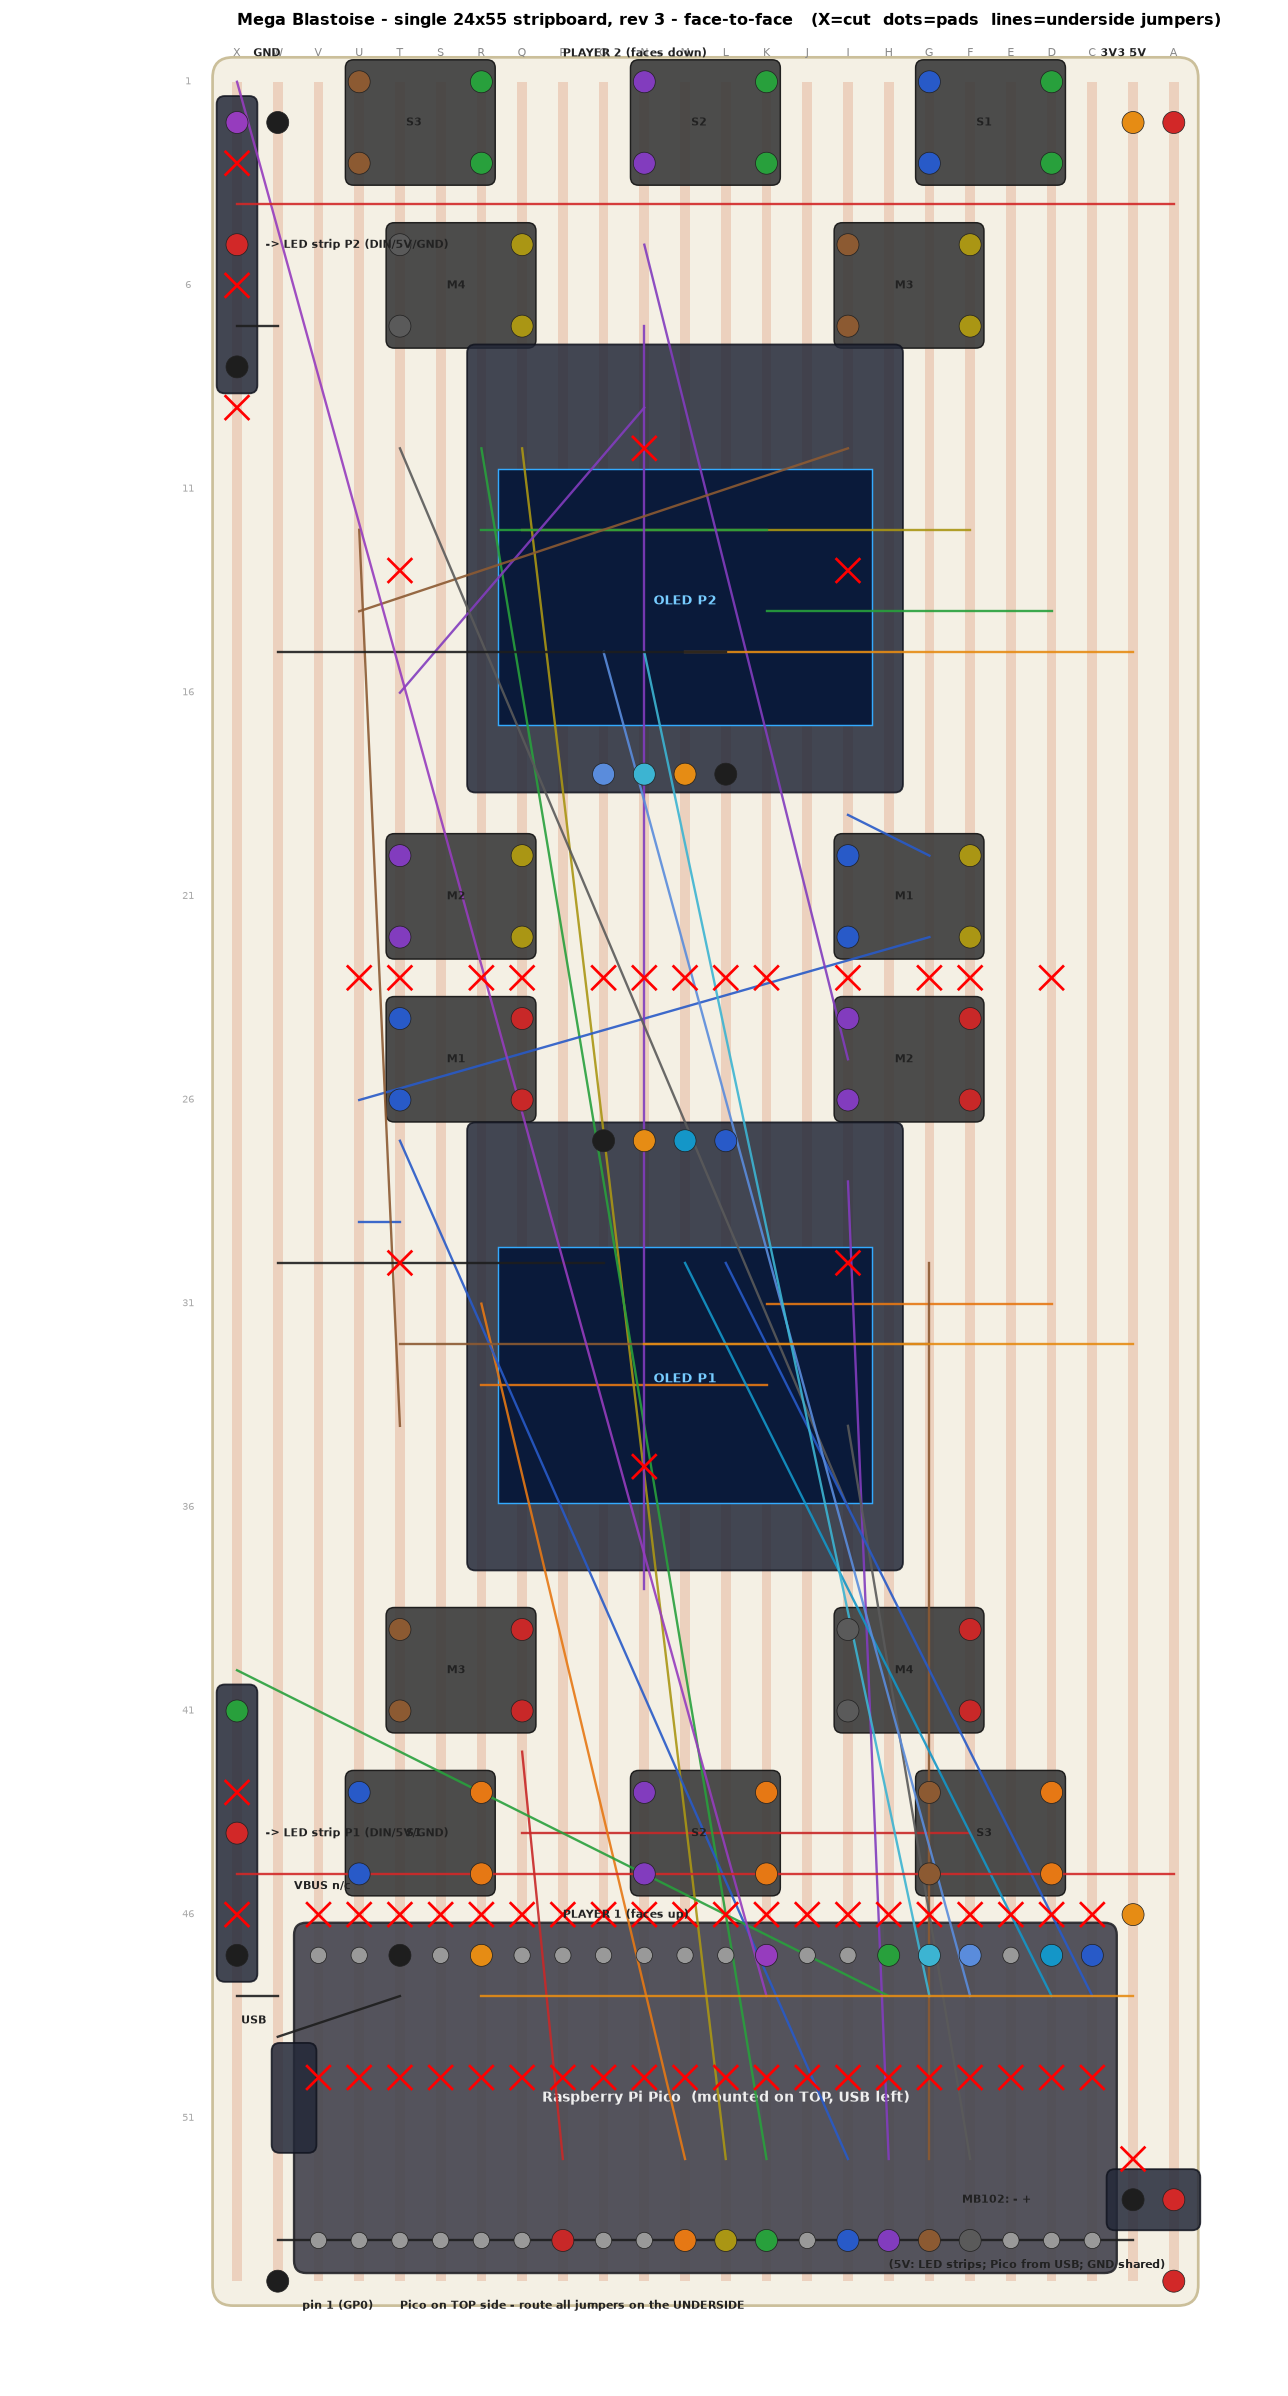
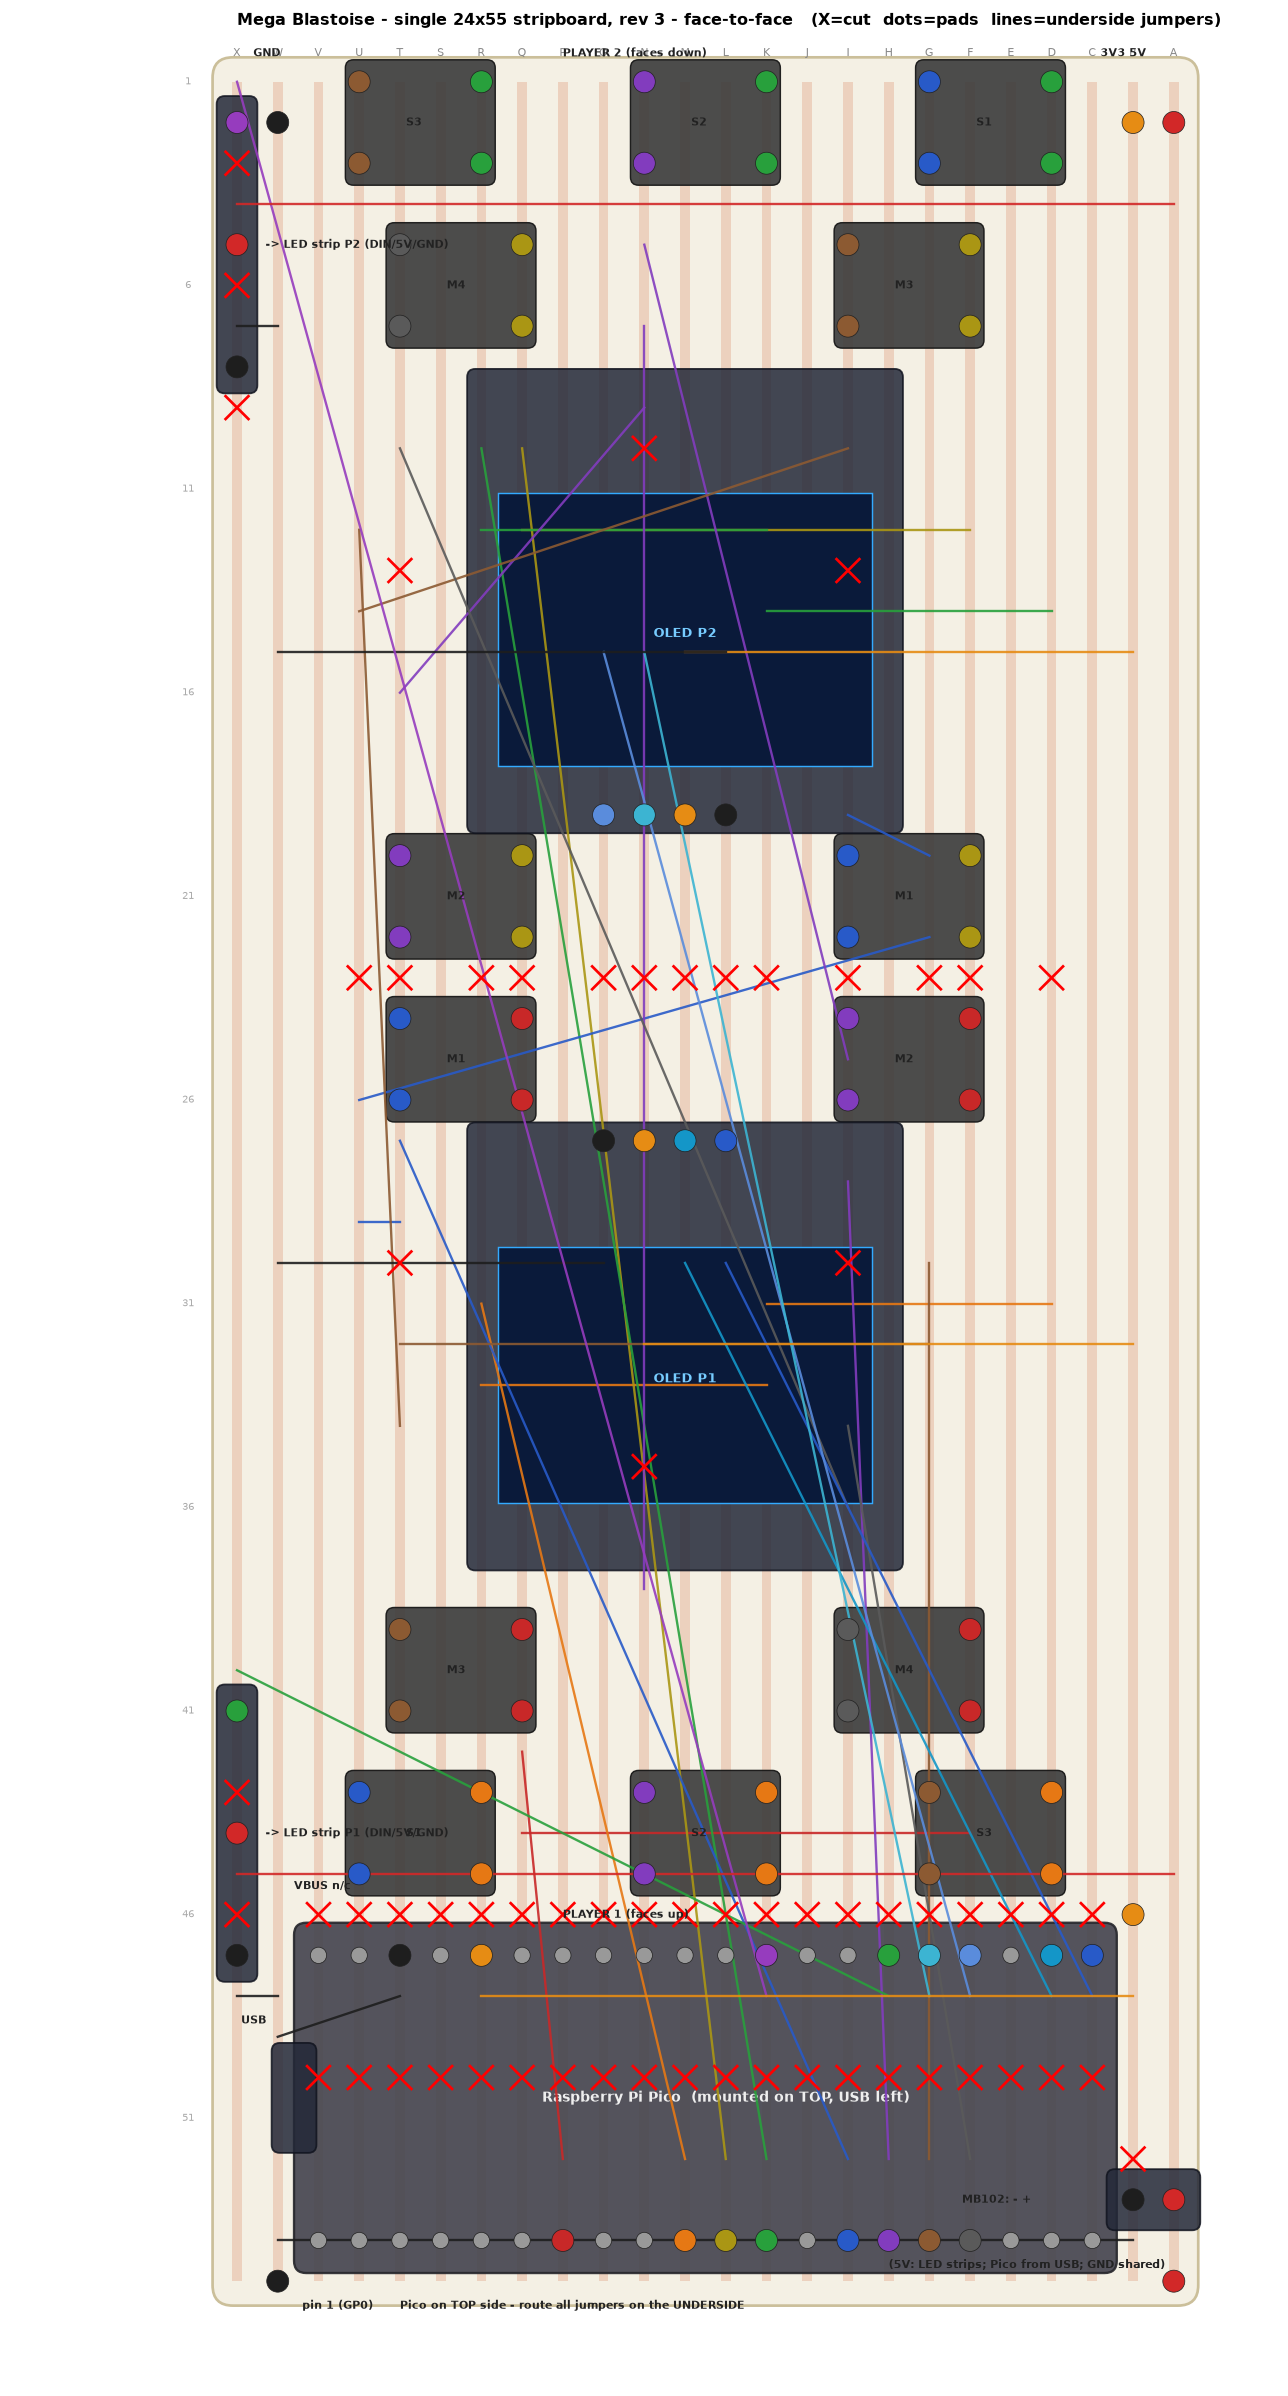
hw: move P2 OLED header from hole 18 to 19
Same strip segments (cuts at 10/23 unaffected), so no cut changes - safe
with the already-cut board. Gains a hole of clearance to M4/M3 above;
screen edge now tight against M2/M1 below. verify PASS, docs/previews
regenerated.

Claude-Session: https://claude.ai/code/session_01VfVAKQjo6ceuqiV7C5gude

Changed region(s): [[0.3416, 0.2471, 0.7143, 0.3706], [0.3416, 0.1235, 0.7143, 0.1544], [0.3727, 0.1853, 0.6832, 0.2162]]

diff --git a/hardware/stripboard/gen_build_doc.py b/hardware/stripboard/gen_build_doc.py
@@ -136,10 +136,11 @@ w('')
 wire_table(w, by_sec['oled'])
 w('Then the headers:')
 w('')
-w('- **P1 OLED**: header at hole 27, screen hangs DOWN (rows 27-37). Pin order')
-w(f'  left to right: GND={P(9,27)}, VCC={P(10,27)}, SCL={P(11,27)}, SDA={P(12,27)}.')
-w('- **P2 OLED**: rotated 180 deg - header at hole 18, screen hangs UP (rows')
-w(f'  8-18). Pin order left to right: SDA={P(9,18)}, SCL={P(10,18)}, VCC={P(11,18)}, GND={P(12,18)}.')
+r1, r2 = S.OLED1_ROW, S.OLED2_ROW
+w(f'- **P1 OLED**: header at hole {r1}, screen hangs DOWN (rows {r1}-{r1+10}). Pin order')
+w(f'  left to right: GND={P(9,r1)}, VCC={P(10,r1)}, SCL={P(11,r1)}, SDA={P(12,r1)}.')
+w(f'- **P2 OLED**: rotated 180 deg - header at hole {r2}, screen hangs UP (rows')
+w(f'  {r2-10}-{r2}). Pin order left to right: SDA={P(9,r2)}, SCL={P(10,r2)}, VCC={P(11,r2)}, GND={P(12,r2)}.')
 w('- Double-check your module silkscreen: if its pin order is not GND-VCC-SCL-SDA,')
 w('  tell the generator, do not improvise.')
 w('')
@@ -181,8 +182,8 @@ w('| GP7 (P1 party) | 10 | GP11 (col 2) | 15 |')
 w('| GP8 (P2 moves) | 11 | GP12 (col 3) | 16 |')
 w('| GP9 (P2 party) | 12 | GP13 (col 4) | 17 |')
 w('')
-w(f'4. **OLEDs**: SDA/SCL of each header to Pico pins - P1: {P(12,27)}-pin21(GP16),')
-w(f'   {P(11,27)}-pin22(GP17); P2: {P(9,18)}-pin24(GP18), {P(10,18)}-pin25(GP19).')
+w(f'4. **OLEDs**: SDA/SCL of each header to Pico pins - P1: {P(12,S.OLED1_ROW)}-pin21(GP16),')
+w(f'   {P(11,S.OLED1_ROW)}-pin22(GP17); P2: {P(9,S.OLED2_ROW)}-pin24(GP18), {P(10,S.OLED2_ROW)}-pin25(GP19).')
 w('5. Plug in USB only (no MB102): OLEDs must come up. Then add the MB102 and')
 w('   the strips.')
 w('')

diff --git a/hardware/stripboard/gen_single_board.py b/hardware/stripboard/gen_single_board.py
@@ -86,14 +86,15 @@ for (nm, rn, cn, node, bus, hb) in BUTTONS:
 label(8.0, 0.3, 'PLAYER 2 (faces down)'); label(8.0, 46.0, 'PLAYER 1 (faces up)')
 
 # ── OLED headers: 4 pads. P1 header on top edge; P2 rotated so order reverses ──
-# P2 (row 18, header at BOTTOM of its screen): SDA SCL VCC GND
+OLED2_ROW, OLED1_ROW = 19, 27
+# P2 (header at BOTTOM of its screen): SDA SCL VCC GND
 for c, net in [(9,'GP18'),(10,'GP19'),(11,'3V3'),(12,'GND')]:
-    pad(f'oled2_{net}', net, c, 18)
-# P1 (row 27, header at TOP of its screen): GND VCC SCL SDA
+    pad(f'oled2_{net}', net, c, OLED2_ROW)
+# P1 (header at TOP of its screen): GND VCC SCL SDA
 for c, net in [(9,'GND'),(10,'3V3'),(11,'GP17'),(12,'GP16')]:
-    pad(f'oled1_{net}', net, c, 27)
-MODULES.append(('OLED P2 (180deg)', 5.7, 7.5, 16.3, 18.4))
-MODULES.append(('OLED P1',          5.7, 26.6, 16.3, 37.5))
+    pad(f'oled1_{net}', net, c, OLED1_ROW)
+MODULES.append(('OLED P2 (180deg)', 5.7, OLED2_ROW-10.9, 16.3, OLED2_ROW+0.4))
+MODULES.append(('OLED P1',          5.7, OLED1_ROW-0.4, 16.3, OLED1_ROW+10.5))
 
 # ── LED strip connectors on the left edge (col A): DIN / 5V / GND ─────────────
 pad('led2_din','GP22',0,2); pad('led2_5v','5V',0,5); pad('led2_gnd','GND',0,8)

diff --git a/hardware/stripboard/BUILD.md b/hardware/stripboard/BUILD.md
@@ -116,8 +116,8 @@ Then the headers:
 
 - **P1 OLED**: header at hole 27, screen hangs DOWN (rows 27-37). Pin order
   left to right: GND=O27, VCC=N27, SCL=M27, SDA=L27.
-- **P2 OLED**: rotated 180 deg - header at hole 18, screen hangs UP (rows
-  8-18). Pin order left to right: SDA=O18, SCL=N18, VCC=M18, GND=L18.
+- **P2 OLED**: rotated 180 deg - header at hole 19, screen hangs UP (rows
+  9-19). Pin order left to right: SDA=O19, SCL=N19, VCC=M19, GND=L19.
 - Double-check your module silkscreen: if its pin order is not GND-VCC-SCL-SDA,
   tell the generator, do not improvise.
 
@@ -166,7 +166,7 @@ With the meter on continuity, no power applied:
 | GP9 (P2 party) | 12 | GP13 (col 4) | 17 |
 
 4. **OLEDs**: SDA/SCL of each header to Pico pins - P1: L27-pin21(GP16),
-   M27-pin22(GP17); P2: O18-pin24(GP18), N18-pin25(GP19).
+   M27-pin22(GP17); P2: O19-pin24(GP18), N19-pin25(GP19).
 5. Plug in USB only (no MB102): OLEDs must come up. Then add the MB102 and
    the strips.
 